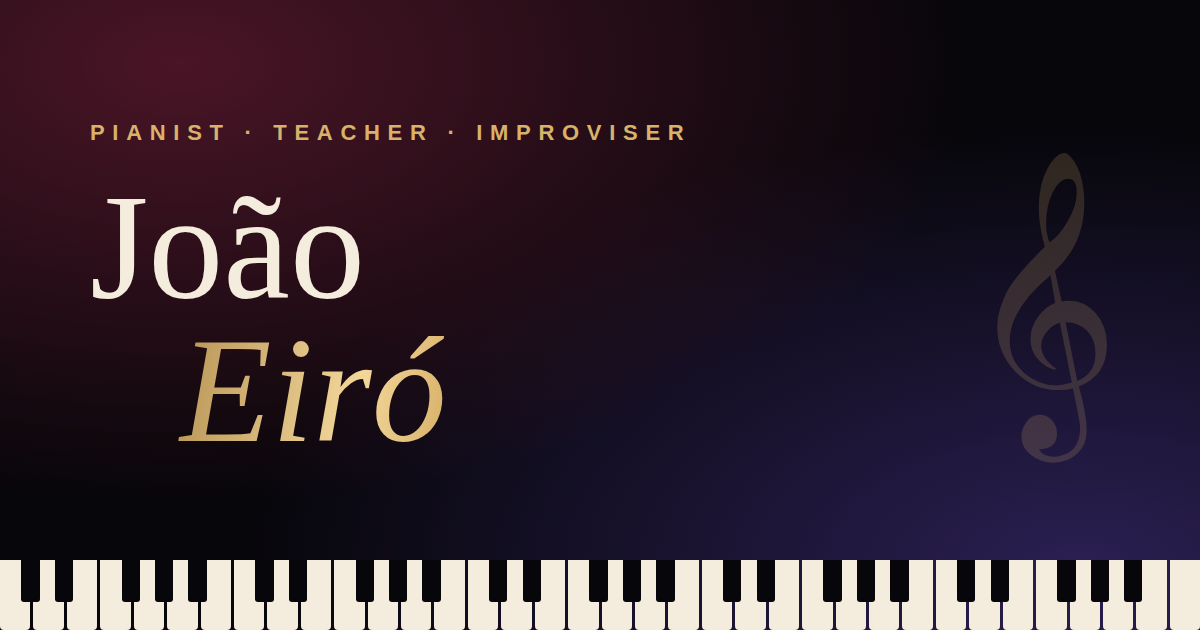
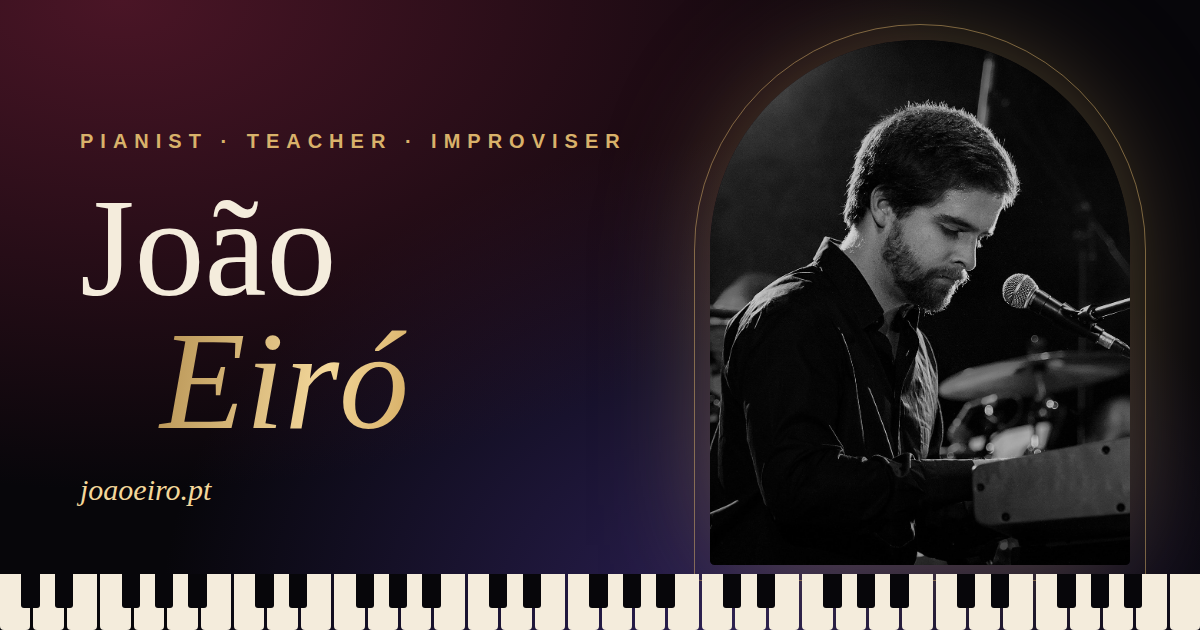
Use the old site's header photo in the hero, portfolio and share image
The black-and-white live photo of João from the old Google Sites header
(imported via a one-off workflow, now removed) is shown:

- Home hero: in an arched frame with a slow zoom, behind the playable
  piano; the keyboard hint gets a backdrop so it stays readable on it
- Portfolio: next to the biography
- Social share image (og.png)

Astro serves it as responsive WebP. Also drops the scroll cue that
collided with the piano and keeps the brand on one line on small phones.

Claude-Session: https://claude.ai/code/session_0128wABvZ7H43ui6cN6vRKEG

diff --git a/src/config/site.ts b/src/config/site.ts
@@ -21,9 +21,6 @@ export const site = {
    */
   formEndpoint: '',
 
-  /** Optional portrait in /public/images (e.g. '/images/joao.jpg'). Empty = illustrated piano. */
-  portrait: '',
-
   socials: {
     youtube: 'https://www.youtube.com/@joaoeiropiano',
     instagram: 'https://www.instagram.com/piano.joaoeiro',

diff --git a/README.md b/README.md
@@ -25,7 +25,8 @@ All colours are tokens at the top of `src/styles/global.css` — `:root` for dar
 
 | What | Where |
 | --- | --- |
-| Email, phone, social links, form endpoint, portrait | `src/config/site.ts` |
+| Email, phone, social links, form endpoint | `src/config/site.ts` |
+| Main photo (hero & portfolio), optimised automatically | `src/assets/joao-eiro-live.jpg` |
 | Videos (YouTube IDs, TikTok & Instagram URLs) | `src/data/media.ts` |
 | Concerts | `src/data/shows.ts` |
 | Testimonials | `src/data/testimonials.ts` |
